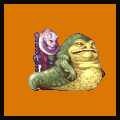
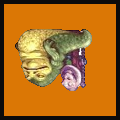
Se implementa la selección de modos de visión y temática
Se consigue seleccionar temática ETSIDI o SW, el tipo de visión, enlazando el menú y el juego con coordinator.

diff --git a/src/Piece.cpp b/src/Piece.cpp
@@ -2,20 +2,20 @@
 
 void piece::dibuja1Pieza(Board& tablero)
 {
-	switch (tematica)
+	switch (vision)
 	{
 	case 0:
-		dibujaModelo(tablero);
-		break;
-	case 1:
 		dibujaSprite(tablero);
 		break;
+	case 1:
+		dibujaModelo(tablero);
+		break;
+	
 	}
 }
 
 void piece::dibujaSprite(Board& tablero)
 {
-	int tematica = 0;
 	glEnable(GL_TEXTURE_2D);
 
 	switch (tipo) {
@@ -99,7 +99,7 @@ void piece::dibujaSprite(Board& tablero)
 			break;
 		case 1:
 			if (color)
-				glBindTexture(GL_TEXTURE_2D, ETSIDI::getTexture("resources/2DUPM/DELEGACIONES//ETSIDI.png").id);
+				glBindTexture(GL_TEXTURE_2D, ETSIDI::getTexture("resources/2D/UPM/DELEGACIONES/ETSIDI.png").id);
 			else
 				glBindTexture(GL_TEXTURE_2D, ETSIDI::getTexture("resources/2D/UPM/ESCUELAS/rey.png").id);
 			break;
@@ -150,9 +150,9 @@ void piece::dibujaSprite(Board& tablero)
 			break;
 		case 1:
 			if (color)
-				glBindTexture(GL_TEXTURE_2D, ETSIDI::getTexture("resources/2D/ETSIAE.png").id);
+				glBindTexture(GL_TEXTURE_2D, ETSIDI::getTexture("resources/2D/UPM/DELEGACIONES/ETSIAE.png").id);
 			else
-				glBindTexture(GL_TEXTURE_2D, ETSIDI::getTexture("resources/2D/arzobispo.png").id);
+				glBindTexture(GL_TEXTURE_2D, ETSIDI::getTexture("resources/2D/UPM/ESCUELAS/arzobispo.png").id);
 			break;
 		}
 		break;

diff --git a/src/ListaPiezas.h b/src/ListaPiezas.h
@@ -20,6 +20,7 @@ public:
 	void agregar(piece* p) { lista.push_back(p); }
 	void dibuja(Board& tablero) { for (auto b : lista) b->dibuja1Pieza(tablero); }
 	void cambiaTematica(int  d) { for (auto b : lista) b->cambiaTematica(d); }
+	void cambiaVision(int  d) { for (auto b : lista) b->cambiaVision(d); }
 	auto begin() { return lista.begin(); }
 	auto end() { return lista.end(); }
 	int size() { return static_cast<int>(lista.size()); }

diff --git a/src/Chancellor.h b/src/Chancellor.h
@@ -5,7 +5,7 @@ class Chancellor: public piece
 {
 public:
 //Constructor
-	Chancellor(Punto2D pos, bool c, int d) : piece(pos, c, d) { tipo = CHANCELLOR; } //Cambiar con otro modelo
+	Chancellor(Punto2D pos, bool c, int t, int v) : piece(pos, c, t, v) { tipo = CHANCELLOR; } //Cambiar con otro modelo
 	void getPosibles(Punto2D pos, Board& tablero);
 };
 

diff --git a/src/Archbishop.h b/src/Archbishop.h
@@ -6,7 +6,7 @@ class Archbishop: public piece
 {
 public:
 //Constructor
-	Archbishop(Punto2D pos, bool c, int d) : piece(pos, c, d) { tipo = ARCHBISHOP; } //Cambiar este modelo
+	Archbishop(Punto2D pos, bool c, int t, int v) : piece(pos, c, t, v) { tipo = ARCHBISHOP; } //Cambiar este modelo
 	void getPosibles(Punto2D pos, Board& tablero);
 };
 

diff --git a/src/Pawn.h b/src/Pawn.h
@@ -7,7 +7,7 @@ class Pawn : public piece
 
 public:
 	//Constructor
-	Pawn(Punto2D pos, bool c, int d) : piece(pos, c, d) { tipo = PAWN; }
+	Pawn(Punto2D pos, bool c, int t, int v) : piece(pos, c, t, v) { tipo = PAWN; }
 	void getPosibles(Punto2D pos, Board& tablero);
 	int promocionar(Punto2D pos) override;
 

diff --git a/src/Bishop.h b/src/Bishop.h
@@ -6,7 +6,7 @@ class Bishop: public piece
 {
 public:
 //Constructor
-	Bishop(Punto2D pos, bool c, int d) : piece(pos, c, d) { tipo = BISHOP; }
+	Bishop(Punto2D pos, bool c, int t, int v) : piece(pos, c, t, v) { tipo = BISHOP; }
 	void getPosibles(Punto2D pos, Board& tablero);
 };
 

diff --git a/src/Knight.h b/src/Knight.h
@@ -6,6 +6,6 @@ class Knight: public piece
 {
 public:
 //Constructor
-	Knight(Punto2D pos, bool c, int d) : piece(pos, c, d) { tipo = KNIGHT; }
+	Knight(Punto2D pos, bool c, int t, int v) : piece(pos, c, t, v) { tipo = KNIGHT; }
 	void getPosibles(Punto2D pos, Board& tablero);
 };

diff --git a/src/Queen.h b/src/Queen.h
@@ -6,7 +6,7 @@ class Queen: public piece
 {
 public:
 //Constructor
-	Queen(Punto2D pos, bool c, int d) : piece(pos, c, d) { tipo = QUEEN; }
+	Queen(Punto2D pos, bool c, int t, int v) : piece(pos, c, t, v) { tipo = QUEEN; }
 	void getPosibles(Punto2D pos, Board& tablero);
 };
 
